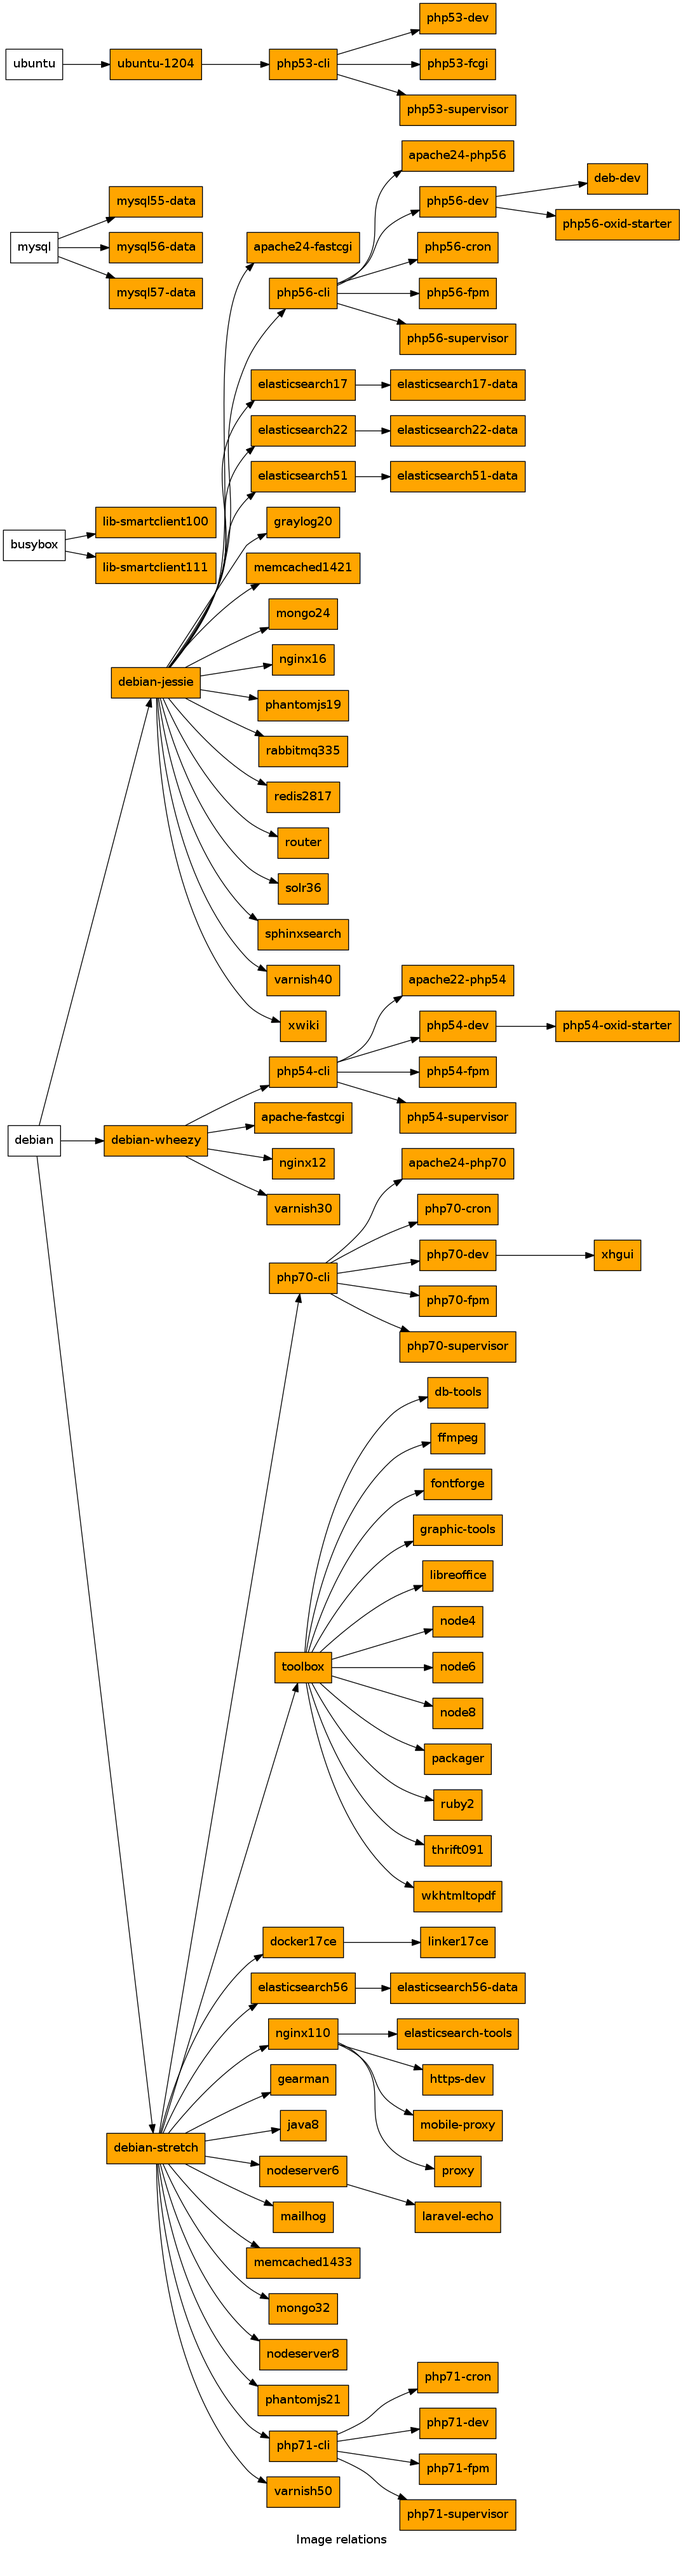
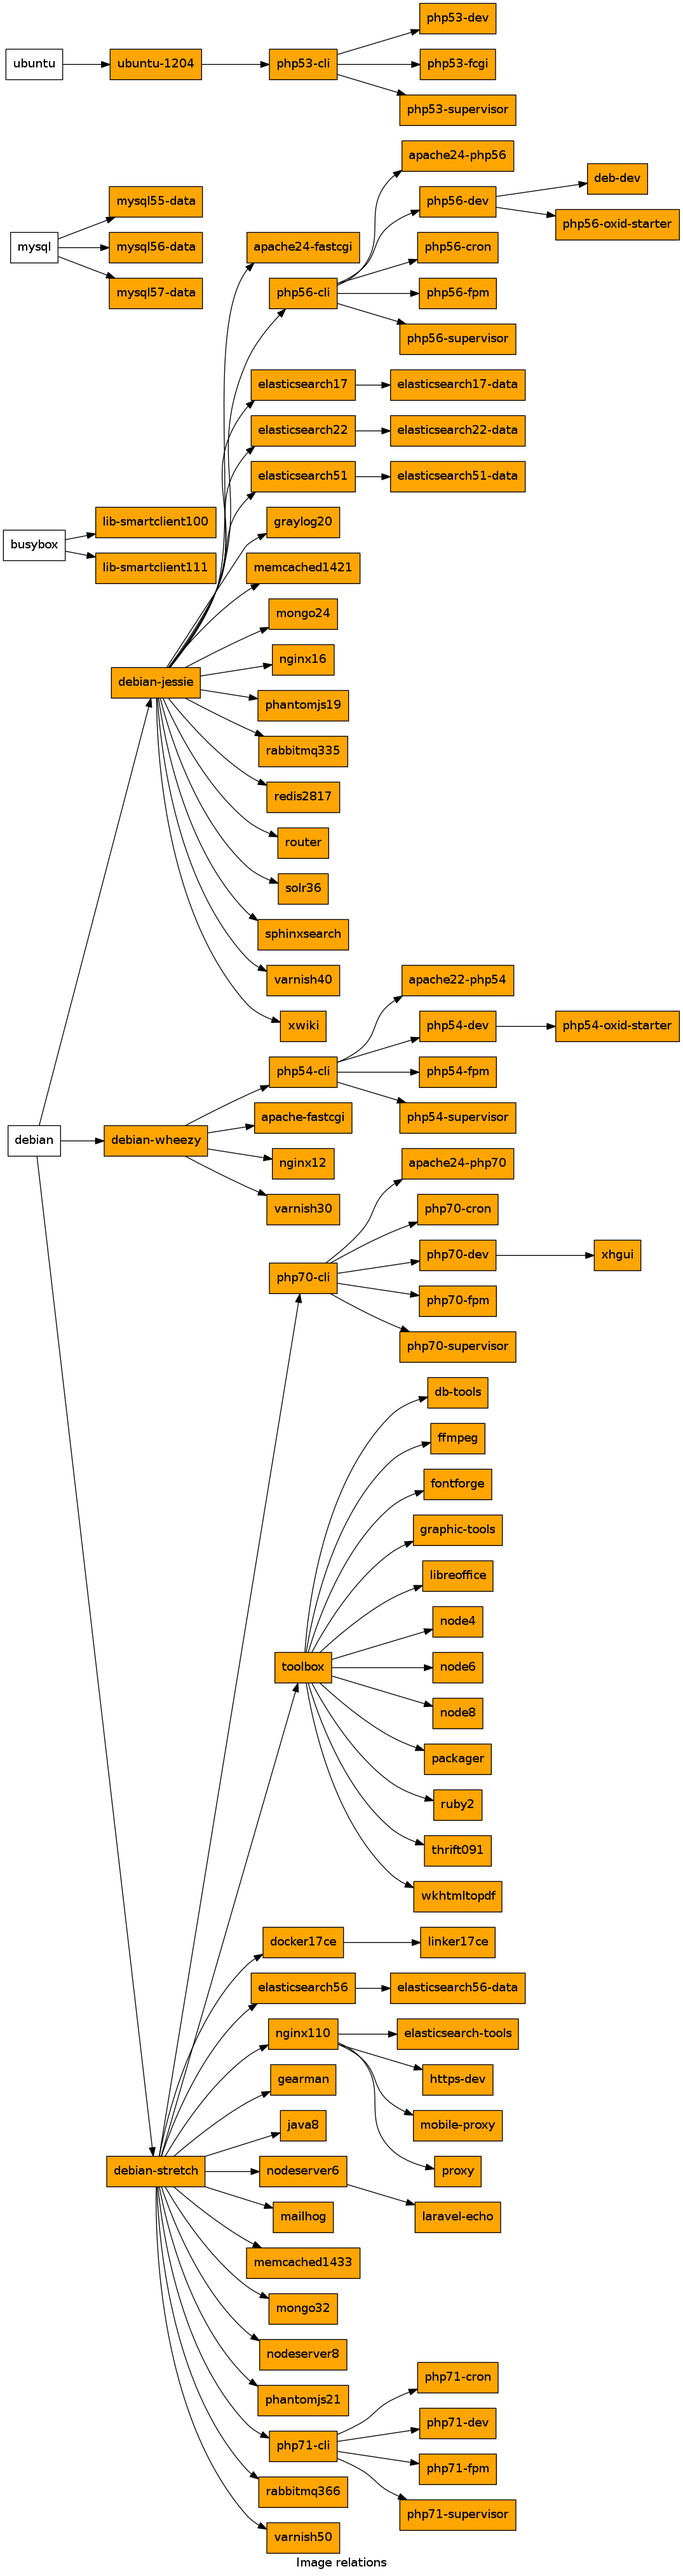
adding rabbitmq 3.6.6

diff --git a/rabbitmq366/README.md b/rabbitmq366/README.md
@@ -1,0 +1,46 @@
+
+
+## supported env vars
+
+
+### NFQ_ENABLE_RABBITMQ_MODULES (optional)
+
+Provide space separated lists of modules in a single quoted string
+
+example:
+    docker run -it -e NFQ_ENABLE_RABBITMQ_MODULES='rabbitmq_management rabbitmq_top' <this_image>
+
+#### list of available modules
+
+
+* amqp_client
+* cowboy
+* cowlib
+* mochiweb
+* rabbitmq_amqp1_0
+* rabbitmq_auth_backend_ldap
+* rabbitmq_auth_mechanism_ssl
+* rabbitmq_consistent_hash_exchange
+* rabbitmq_event_exchange
+* rabbitmq_federation
+* rabbitmq_federation_management
+* rabbitmq_jms_topic_exchange
+* rabbitmq_management
+* rabbitmq_management_agent
+* rabbitmq_management_visualiser
+* rabbitmq_mqtt
+* rabbitmq_recent_history_exchange
+* rabbitmq_sharding
+* rabbitmq_shovel
+* rabbitmq_shovel_management
+* rabbitmq_stomp
+* rabbitmq_top
+* rabbitmq_tracing
+* rabbitmq_trust_store
+* rabbitmq_web_dispatch
+* rabbitmq_web_stomp
+* rabbitmq_web_stomp_examples
+* sockjs
+* webmachine
+
+
